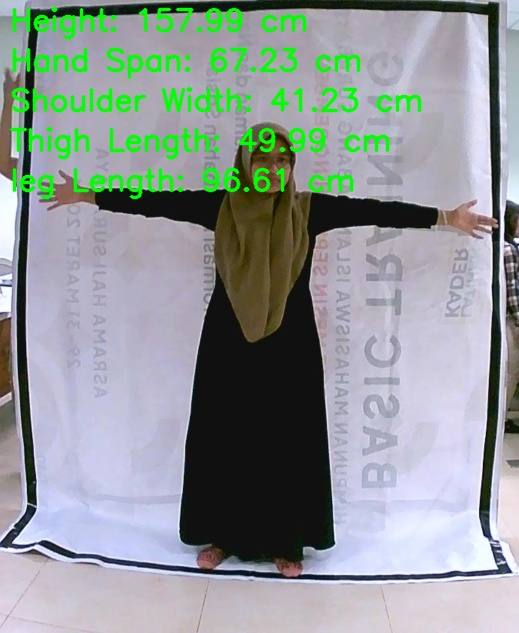
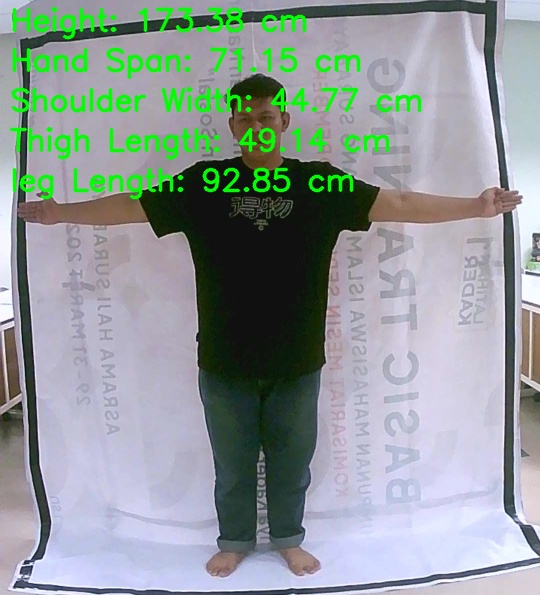
add crop

diff --git a/detect_from_folder.py b/detect_from_folder.py
@@ -21,16 +21,16 @@ def Count(output_path, image_path):
     frame = cv2.rotate(frame, cv2.ROTATE_90_COUNTERCLOCKWISE)
 
     # # Load HSV ranges from calibration file
-    # min_hue, max_hue, min_saturation, max_saturation, min_value, max_value = cr.load_hsv_ranges(calib_file_name)
-    # mask = cr.detect_color(frame, min_hue, max_hue, min_saturation, max_saturation, min_value, max_value)
+    min_hue, max_hue, min_saturation, max_saturation, min_value, max_value = cr.load_hsv_ranges(calib_file_name)
+    mask = cr.detect_color(frame, min_hue, max_hue, min_saturation, max_saturation, min_value, max_value)
 
-    # # Crop the frame using the mask
-    # crop_frame = cr.crop_image(frame, mask)
+    # Crop the frame using the mask
+    crop_frame = cr.crop_image(frame, mask)
 
     # Process the cropped image to detect objects
-    output_image = cn.process_image(frame)
+    output_image = cn.process_image(crop_frame)
     if output_image is not None:
-        # cv2.imshow('Hasil Pengukuran', output_image)
+        cv2.imshow('Hasil Pengukuran', output_image)
         output_path = os.path.join(output_path, os.path.basename(image_path))
         cv2.imwrite(output_path, output_image)
         print(f"Output saved to {output_path}.")
@@ -38,7 +38,7 @@ def Count(output_path, image_path):
 def main():
     # Folder containing images
     input_folder = './Raw_data'
-    output_folder = './Hasil_Deteksi'
+    output_folder = './Hasil_Deteksi_crop'
     os.makedirs(output_folder, exist_ok=True)
 
     # Initialize state

diff --git a/module/crop.py b/module/crop.py
@@ -40,5 +40,6 @@ def crop_image(main_frame, mask):
     
     if min_x < float('inf') and min_y < float('inf'):
         cv2.rectangle(main_frame, (min_x, min_y), (max_x, max_y), (0, 255, 255), 5)
-        return frame[min_y:max_y+70, min_x - 20:max_x + 20]
+        # print(f"x ({min_x, min_y}) y ({max_x, max_y})")
+        return frame[min_y:max_y+50, min_x:max_x]
     return None

diff --git a/detect_from_img.py b/detect_from_img.py
@@ -61,7 +61,7 @@ def Count(frame):
 
 def main():
     # Load the image from file
-    image_path = './Raw_data/Tiara.jpg'  # Replace with the actual image path
+    image_path = './Raw_data/abi.jpg'  # Replace with the actual image path
     frame = cv2.imread(image_path)
     if frame is None:
         print(f"Error: Could not read the image from {image_path}.")
